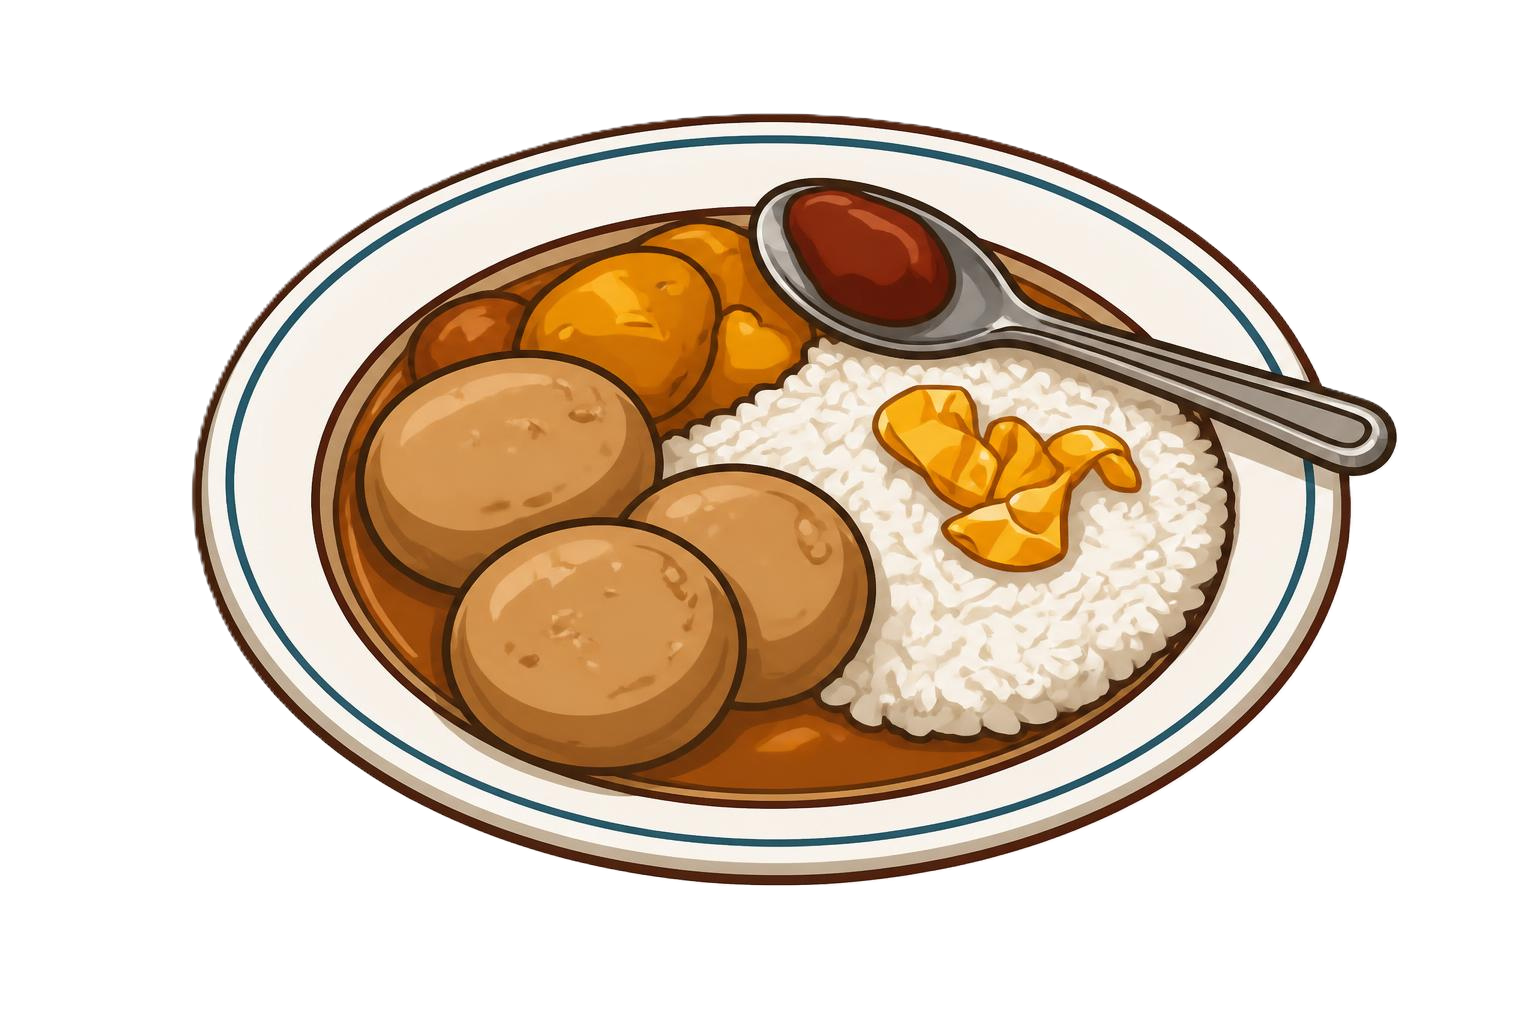
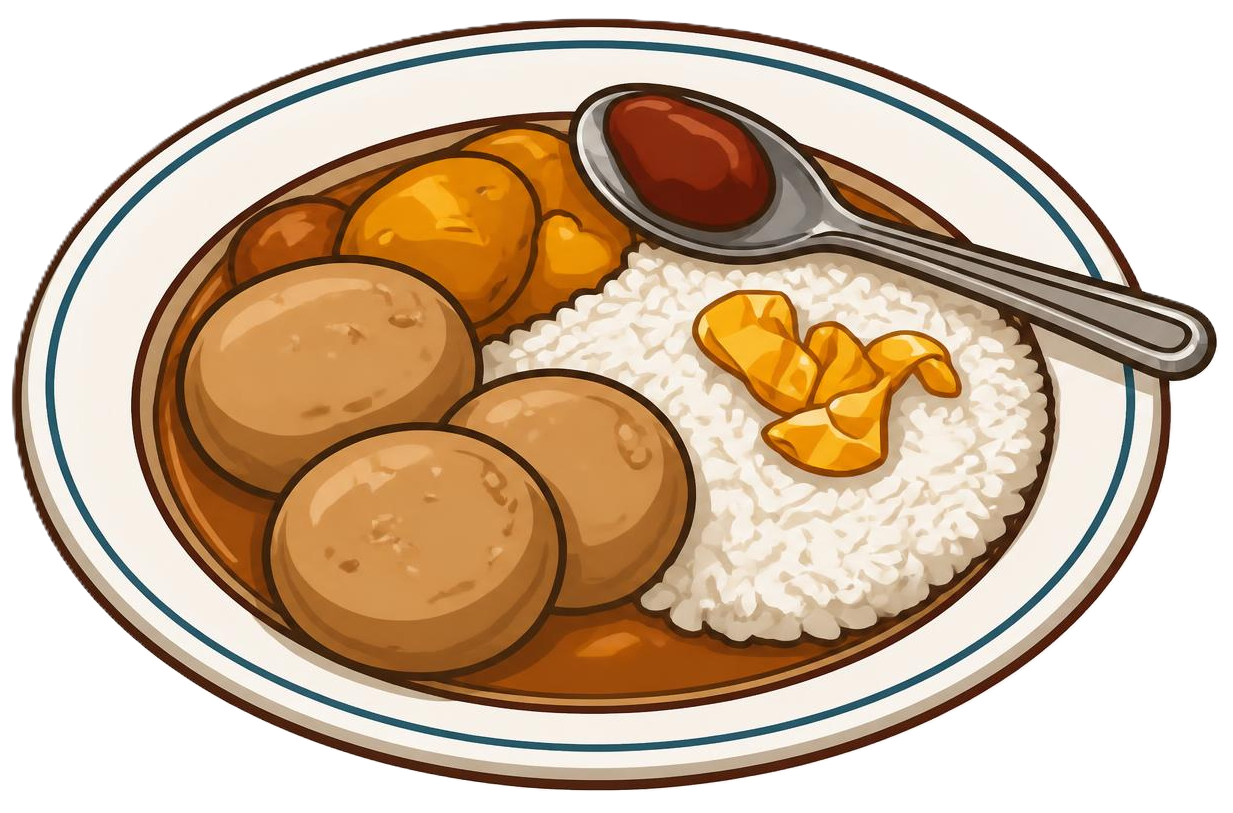
Changed menu_vertical to work on weekends

diff --git a/menu_vertical.html b/menu_vertical.html
@@ -144,19 +144,35 @@ function todayKey() {
 
 function currentMenu() {
 
-    const today = todayKey();
+    const d = new Date();
+
+    if (d.getDay() === 6 || d.getDay() === 0) {
+        return menus[2]; // næsta vika í JSON
+    }
+
+    const today =
+        d.getFullYear() + "-" +
+        String(d.getMonth() + 1).padStart(2, "0") + "-" +
+        String(d.getDate()).padStart(2, "0");
 
     return menus.find(menu =>
         today >= menu.start &&
         today <= menu.end
     );
 }
-
 function getTodayInfo() {
 
     const today = new Date();
 
-    const weekday = today.getDay();
+    let weekday = today.getDay();
+
+    if (weekday === 0) {
+        weekday = 1; // sunnudagur -> mánudagur
+        }
+         
+    if (weekday === 6) {
+        weekday = 1; // laugardagur -> mánudagur
+        }
 
     const dayNames = [
         "Sunnudagur",
@@ -178,10 +194,7 @@ function getTodayInfo() {
 
     return {
         dayName: dayNames[weekday],
-        meal:
-            mealIndex >= 0 && mealIndex < 5
-                ? week.meals[mealIndex]
-                : "Enginn skólamatur í dag"
+        meal: week.meals[mealIndex]
     };
 }
 
